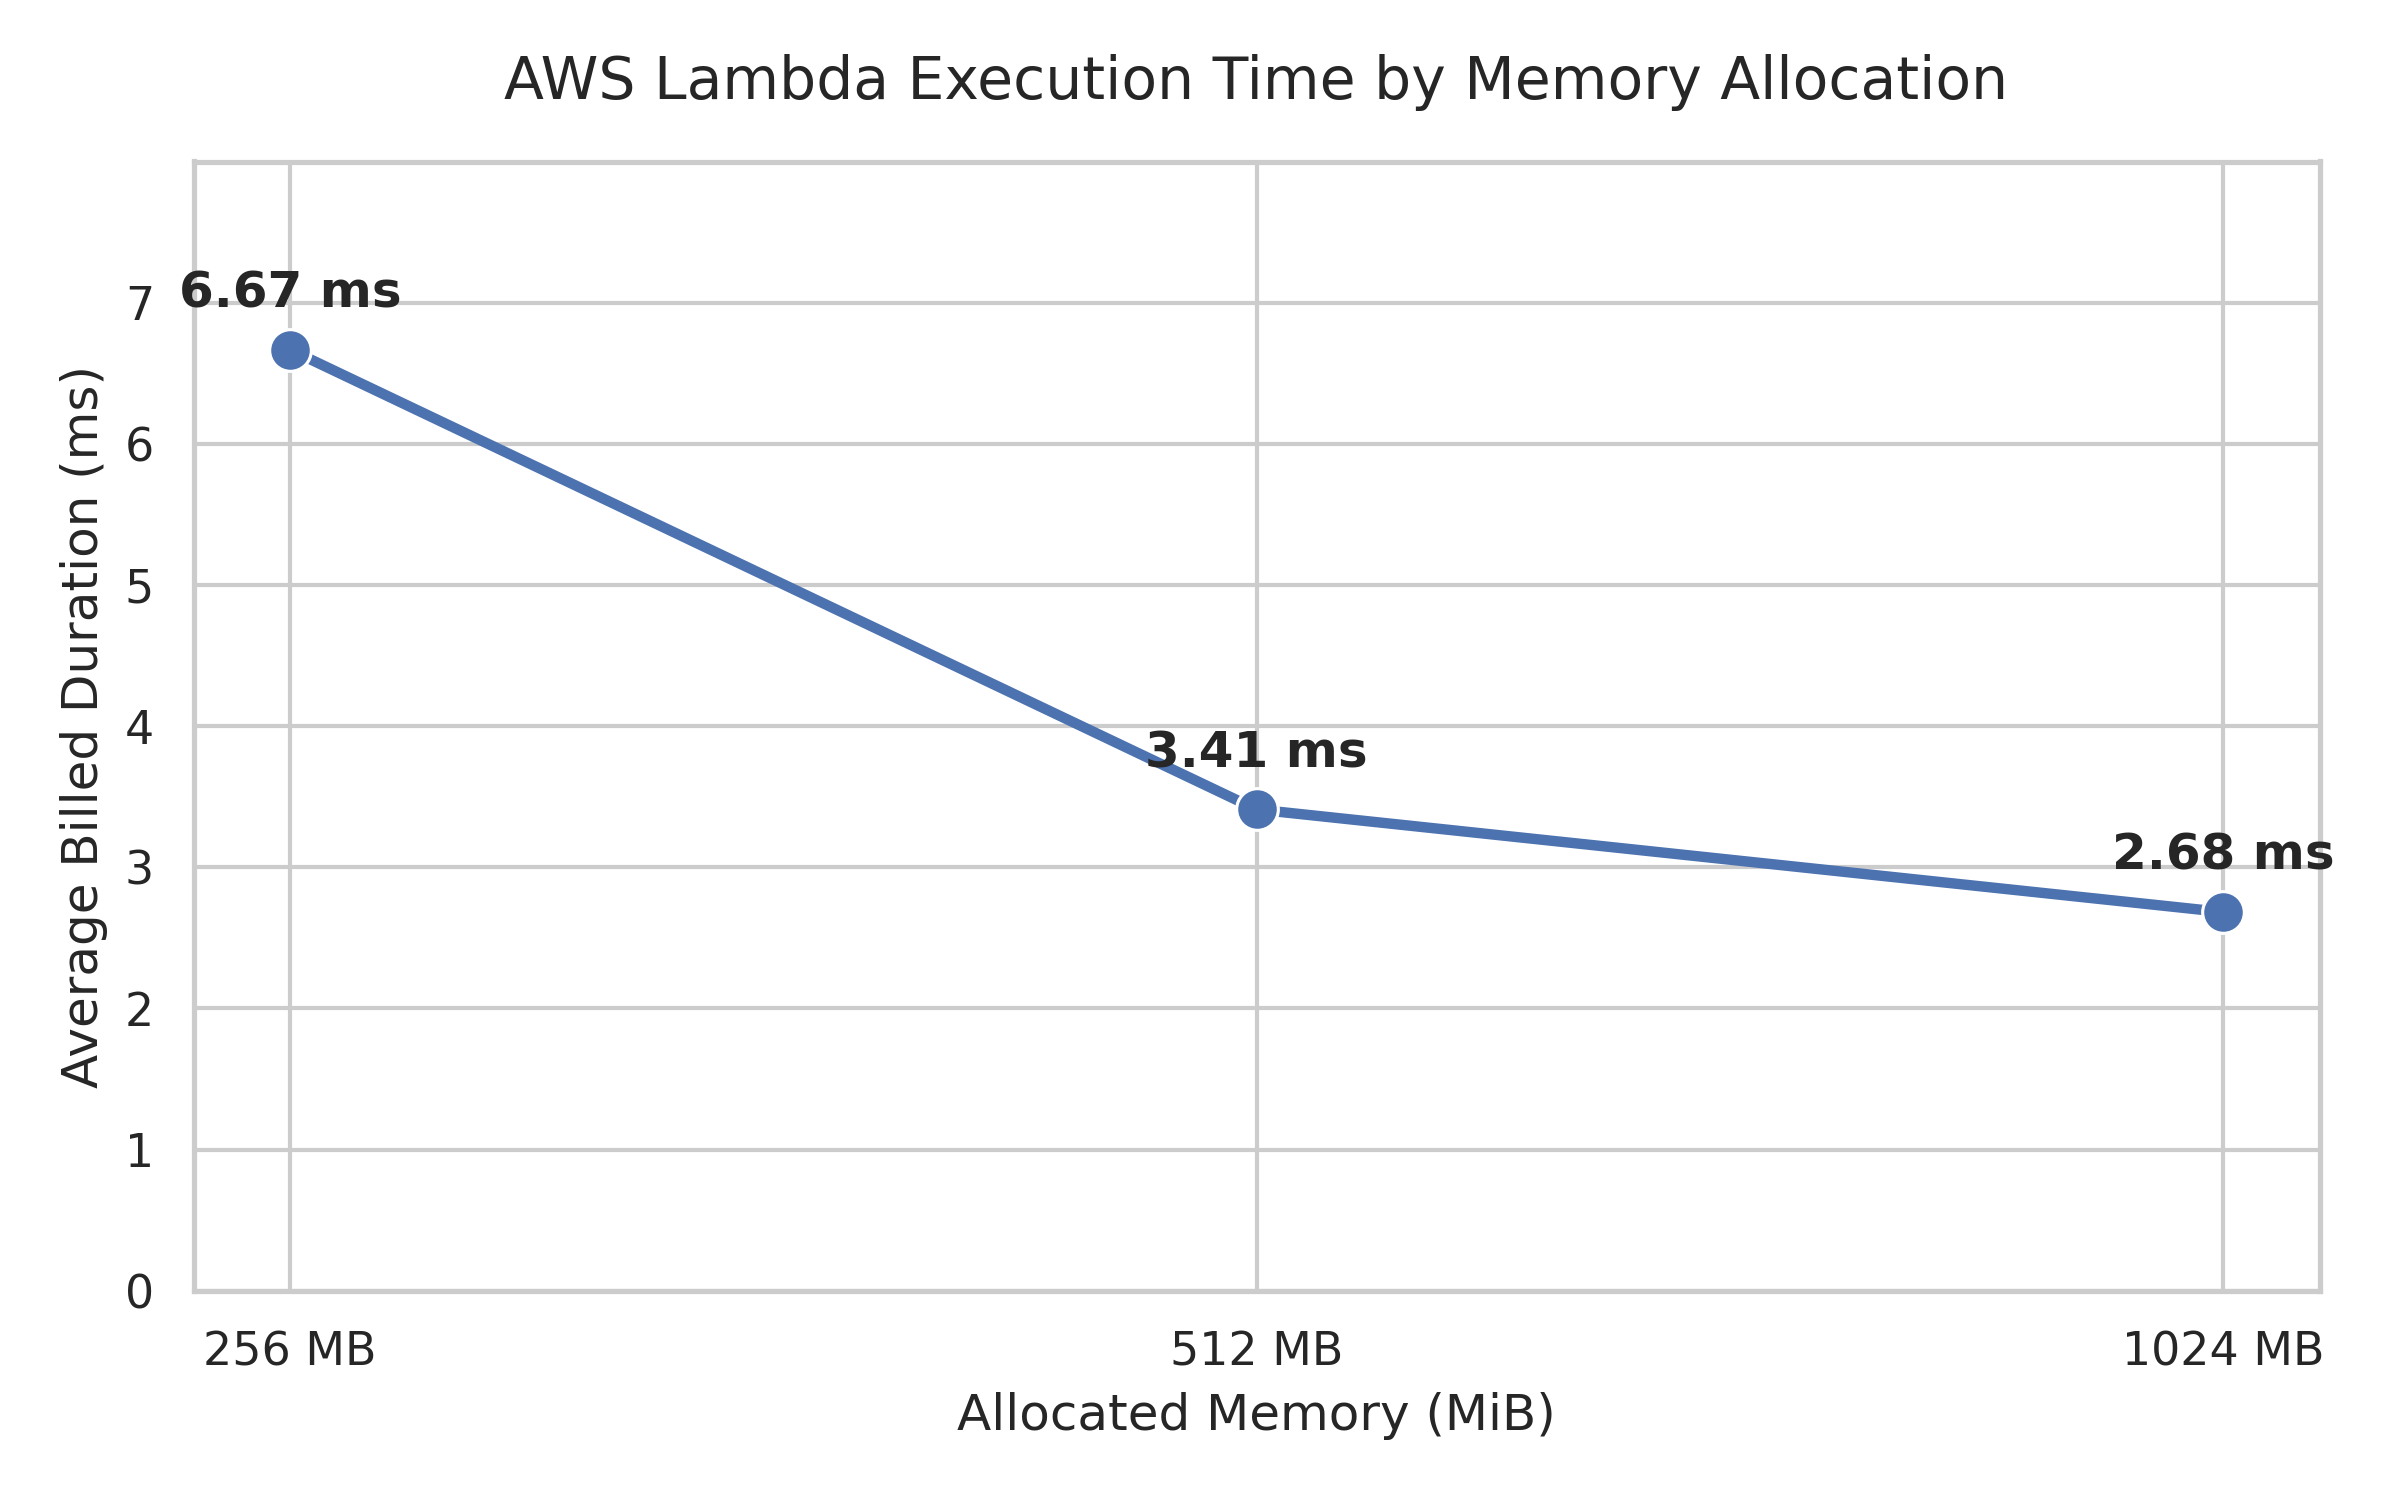
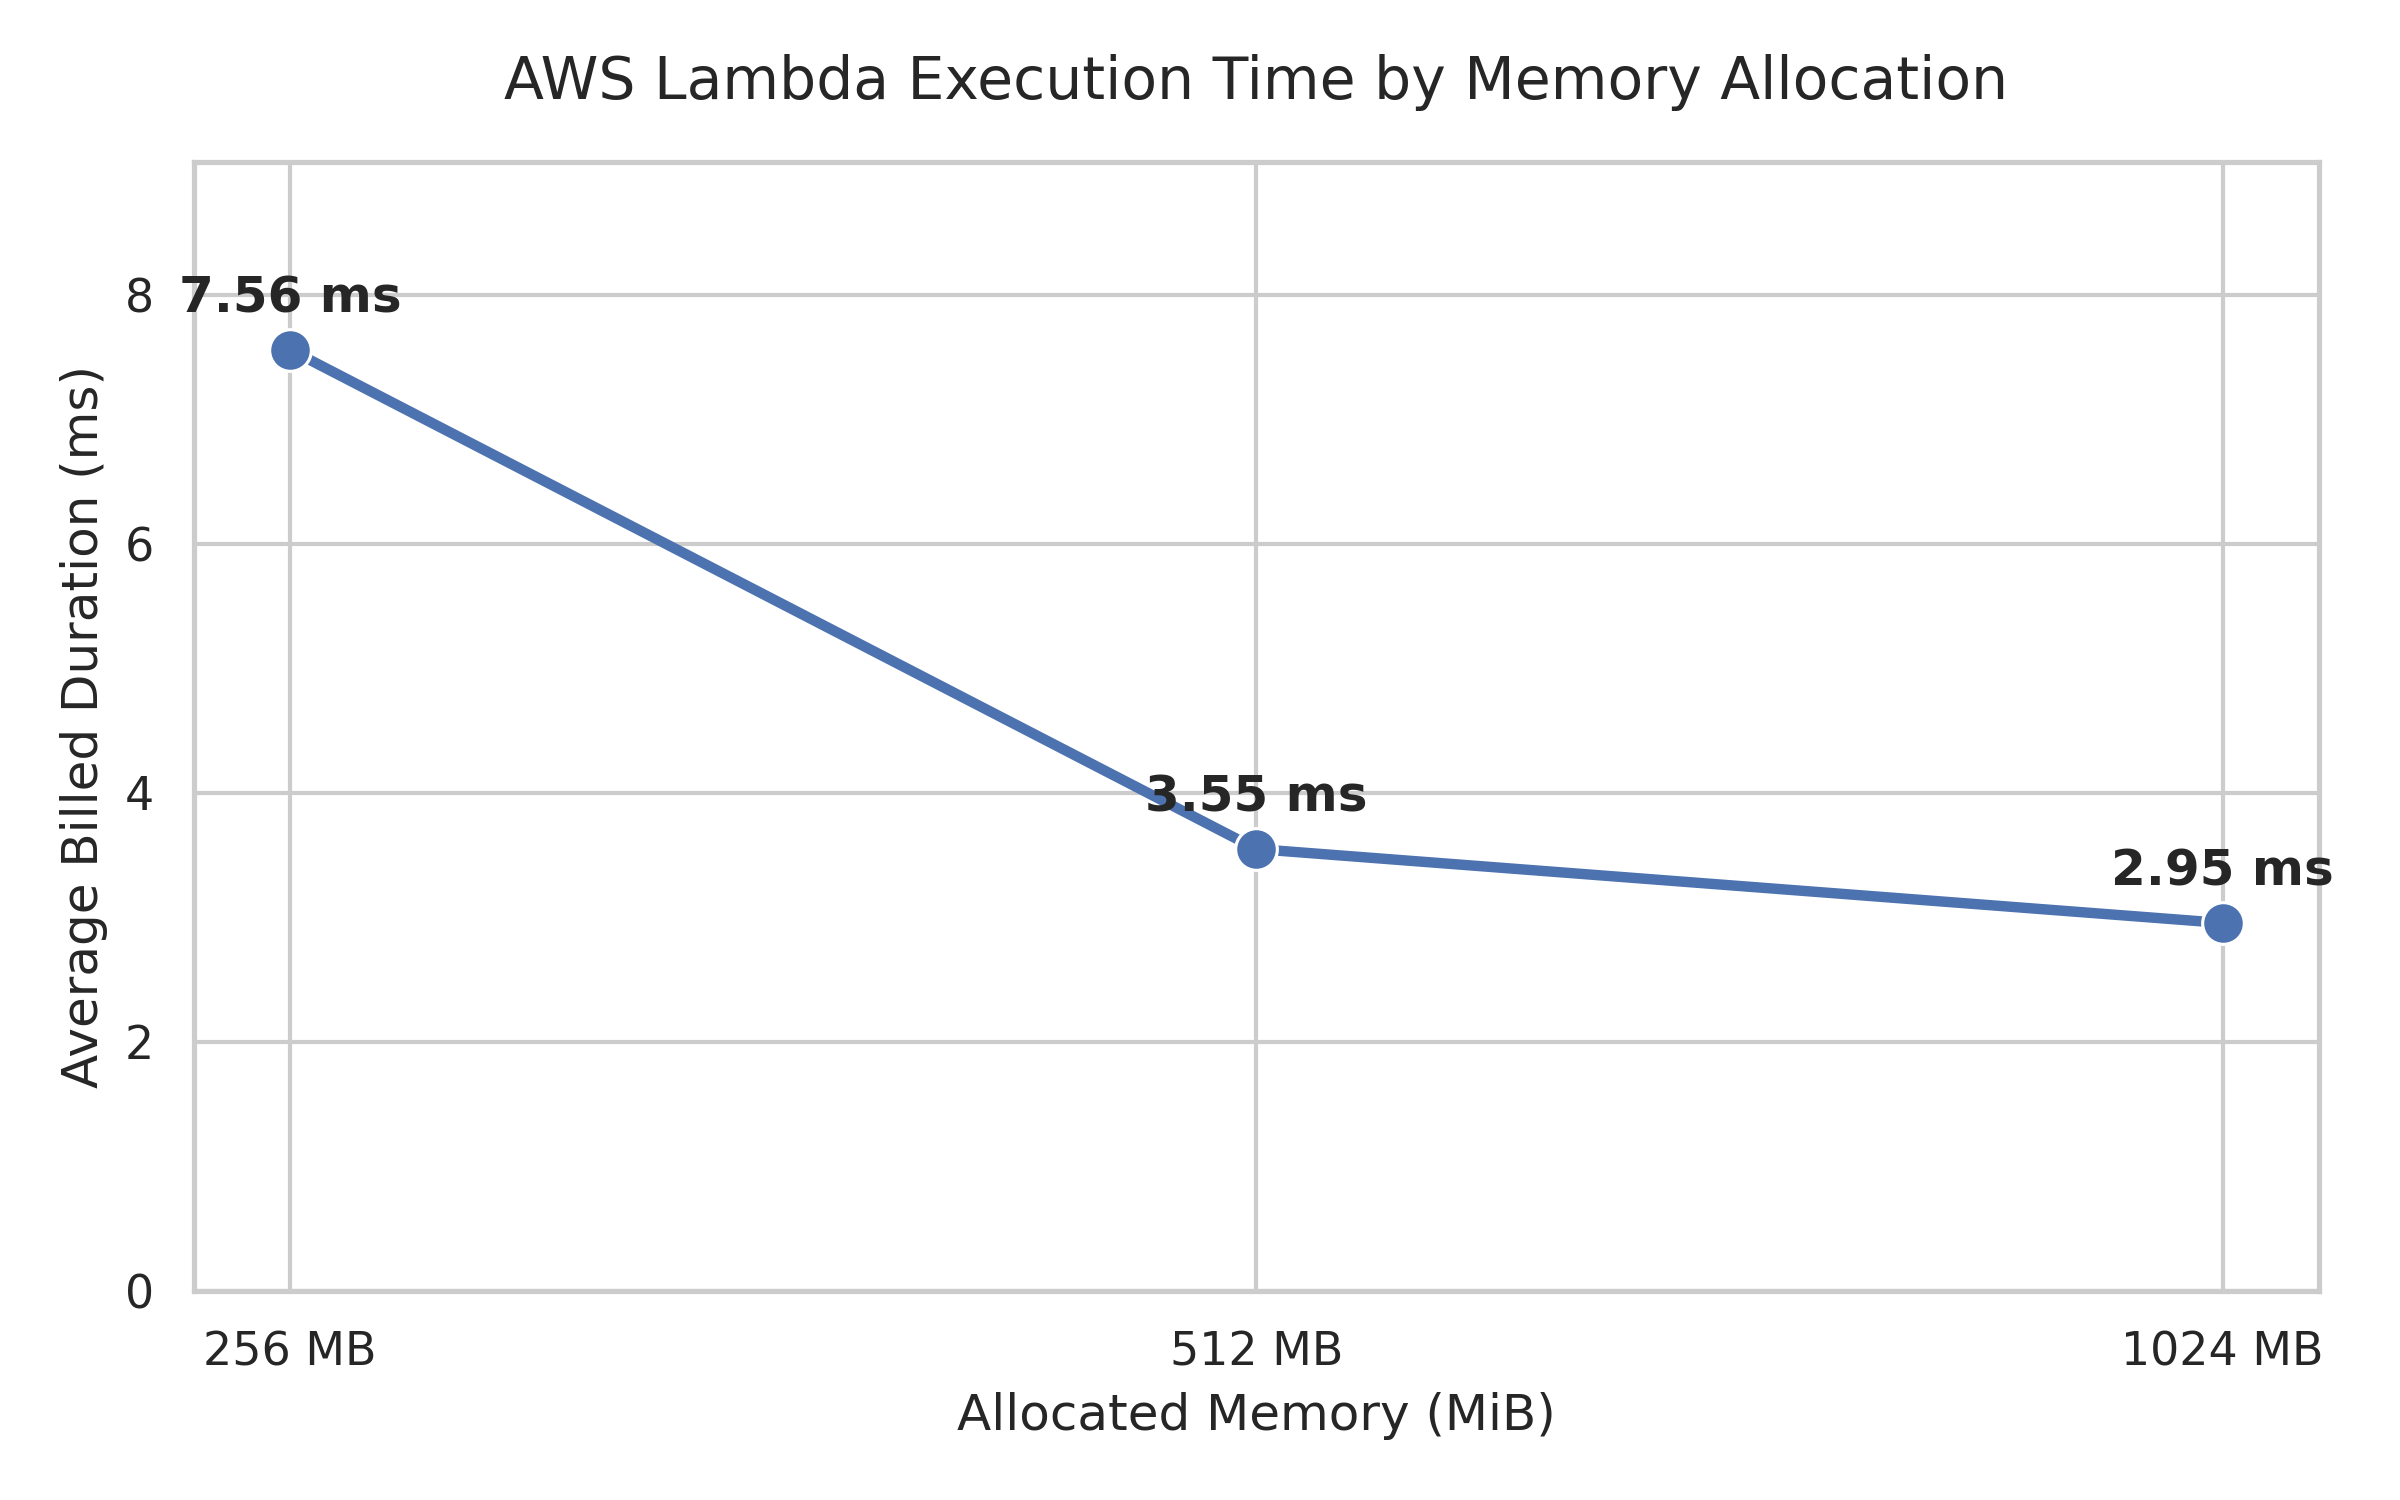
re-generated the plots, only cold start left

diff --git a/src/generate_plots.py b/src/generate_plots.py
@@ -36,9 +36,9 @@ cw_256 = '../results/results_vs_265mb/logs-insights-results-256mb4.csv'
 cw_512 = '../results/results_vs_512mb/logs-insights-results-512mb4.csv'
 cw_1024 = '../results/results_vs_1024mb/logs-insights-results-1024mb4.csv'
 
-locust_256 = '../results/results_vs_265mb/Locust_2026-05-29-14h37_locustfile.py_https___3fxen53kw4.execute-api.us-east-1.amazonaws.com_Prod_requests-256mb4.csv'
-locust_512 = '../results/results_vs_512mb/Locust_2026-05-29-14h10_locustfile.py_https___3fxen53kw4.execute-api.us-east-1.amazonaws.com_Prod_requests-512mb4.csv'
-locust_1024 = '../results/results_vs_1024mb/Locust_2026-05-29-15h02_locustfile.py_https___3fxen53kw4.execute-api.us-east-1.amazonaws.com_Prod_requests-1024mb4.csv'
+locust_256 = '../results/results_vs_265mb/Locust_2026-05-30-18h55_locustfile.py_https___3fxen53kw4.execute-api.us-east-1.amazonaws.com_Prod_requests-256mb4.csv'
+locust_512 = '../results/results_vs_512mb/Locust_2026-05-30-18h33_locustfile.py_https___3fxen53kw4.execute-api.us-east-1.amazonaws.com_Prod_requests-512mb4.csv'
+locust_1024 = '../results/results_vs_1024mb/Locust_2026-05-30-19h17_locustfile.py_https___3fxen53kw4.execute-api.us-east-1.amazonaws.com_Prod_requests-1024mb4.csv'
 
 _, billed_256 = get_cw_duration(cw_256)
 _, billed_512 = get_cw_duration(cw_512)
@@ -56,11 +56,11 @@ cw_arpa_lgbm = '../results/results_lgbm_arpa_only_50/logs-insights-results-lgbm_
 
 dur_lgbm, _ = get_cw_duration(cw_lgbm)
 dur_xgb, _ = get_cw_duration(cw_xgb)
-dur_lgbm_arpa, _ = get_cw_duration(cw_arpa_lgbm)  
+dur_lgbm_arpa, _ = get_cw_duration(cw_arpa_lgbm)
 dur_arpa_xgb, _ = get_cw_duration(cw_arpa_xgb)
 
 # 3. Dati per Cold Start (Spike)
-cw_spike = '../results/results_coldstart_80/logs-insights-results-coldstart-80-4.csv'
+cw_spike = '../results/results_coldstart_80/logs-insights-results-coldstart-60.csv'
 max_cold_spike = get_cw_coldstart(cw_spike)
 dur_warm_spike, _ = get_cw_duration(cw_spike)
 
@@ -123,7 +123,8 @@ def plot_user_latency():
 
 def plot_framework_showdown():
     """Plot 3: LightGBM vs XGBoost Baseline vs ARPA XGBoost vs LightGBM ARPA"""
-    frameworks = ['LightGBM', 'XGBoost (Baseline)', 'ARPA XGBoost', 'LightGBM ARPA']
+    frameworks = ['LightGBM',
+                  'XGBoost (Baseline)', 'ARPA XGBoost', 'LightGBM ARPA']
     # dur_arpa_xgb da definire se disponibile
     duration = [dur_lgbm, dur_xgb, dur_arpa_xgb, dur_lgbm_arpa]
 
